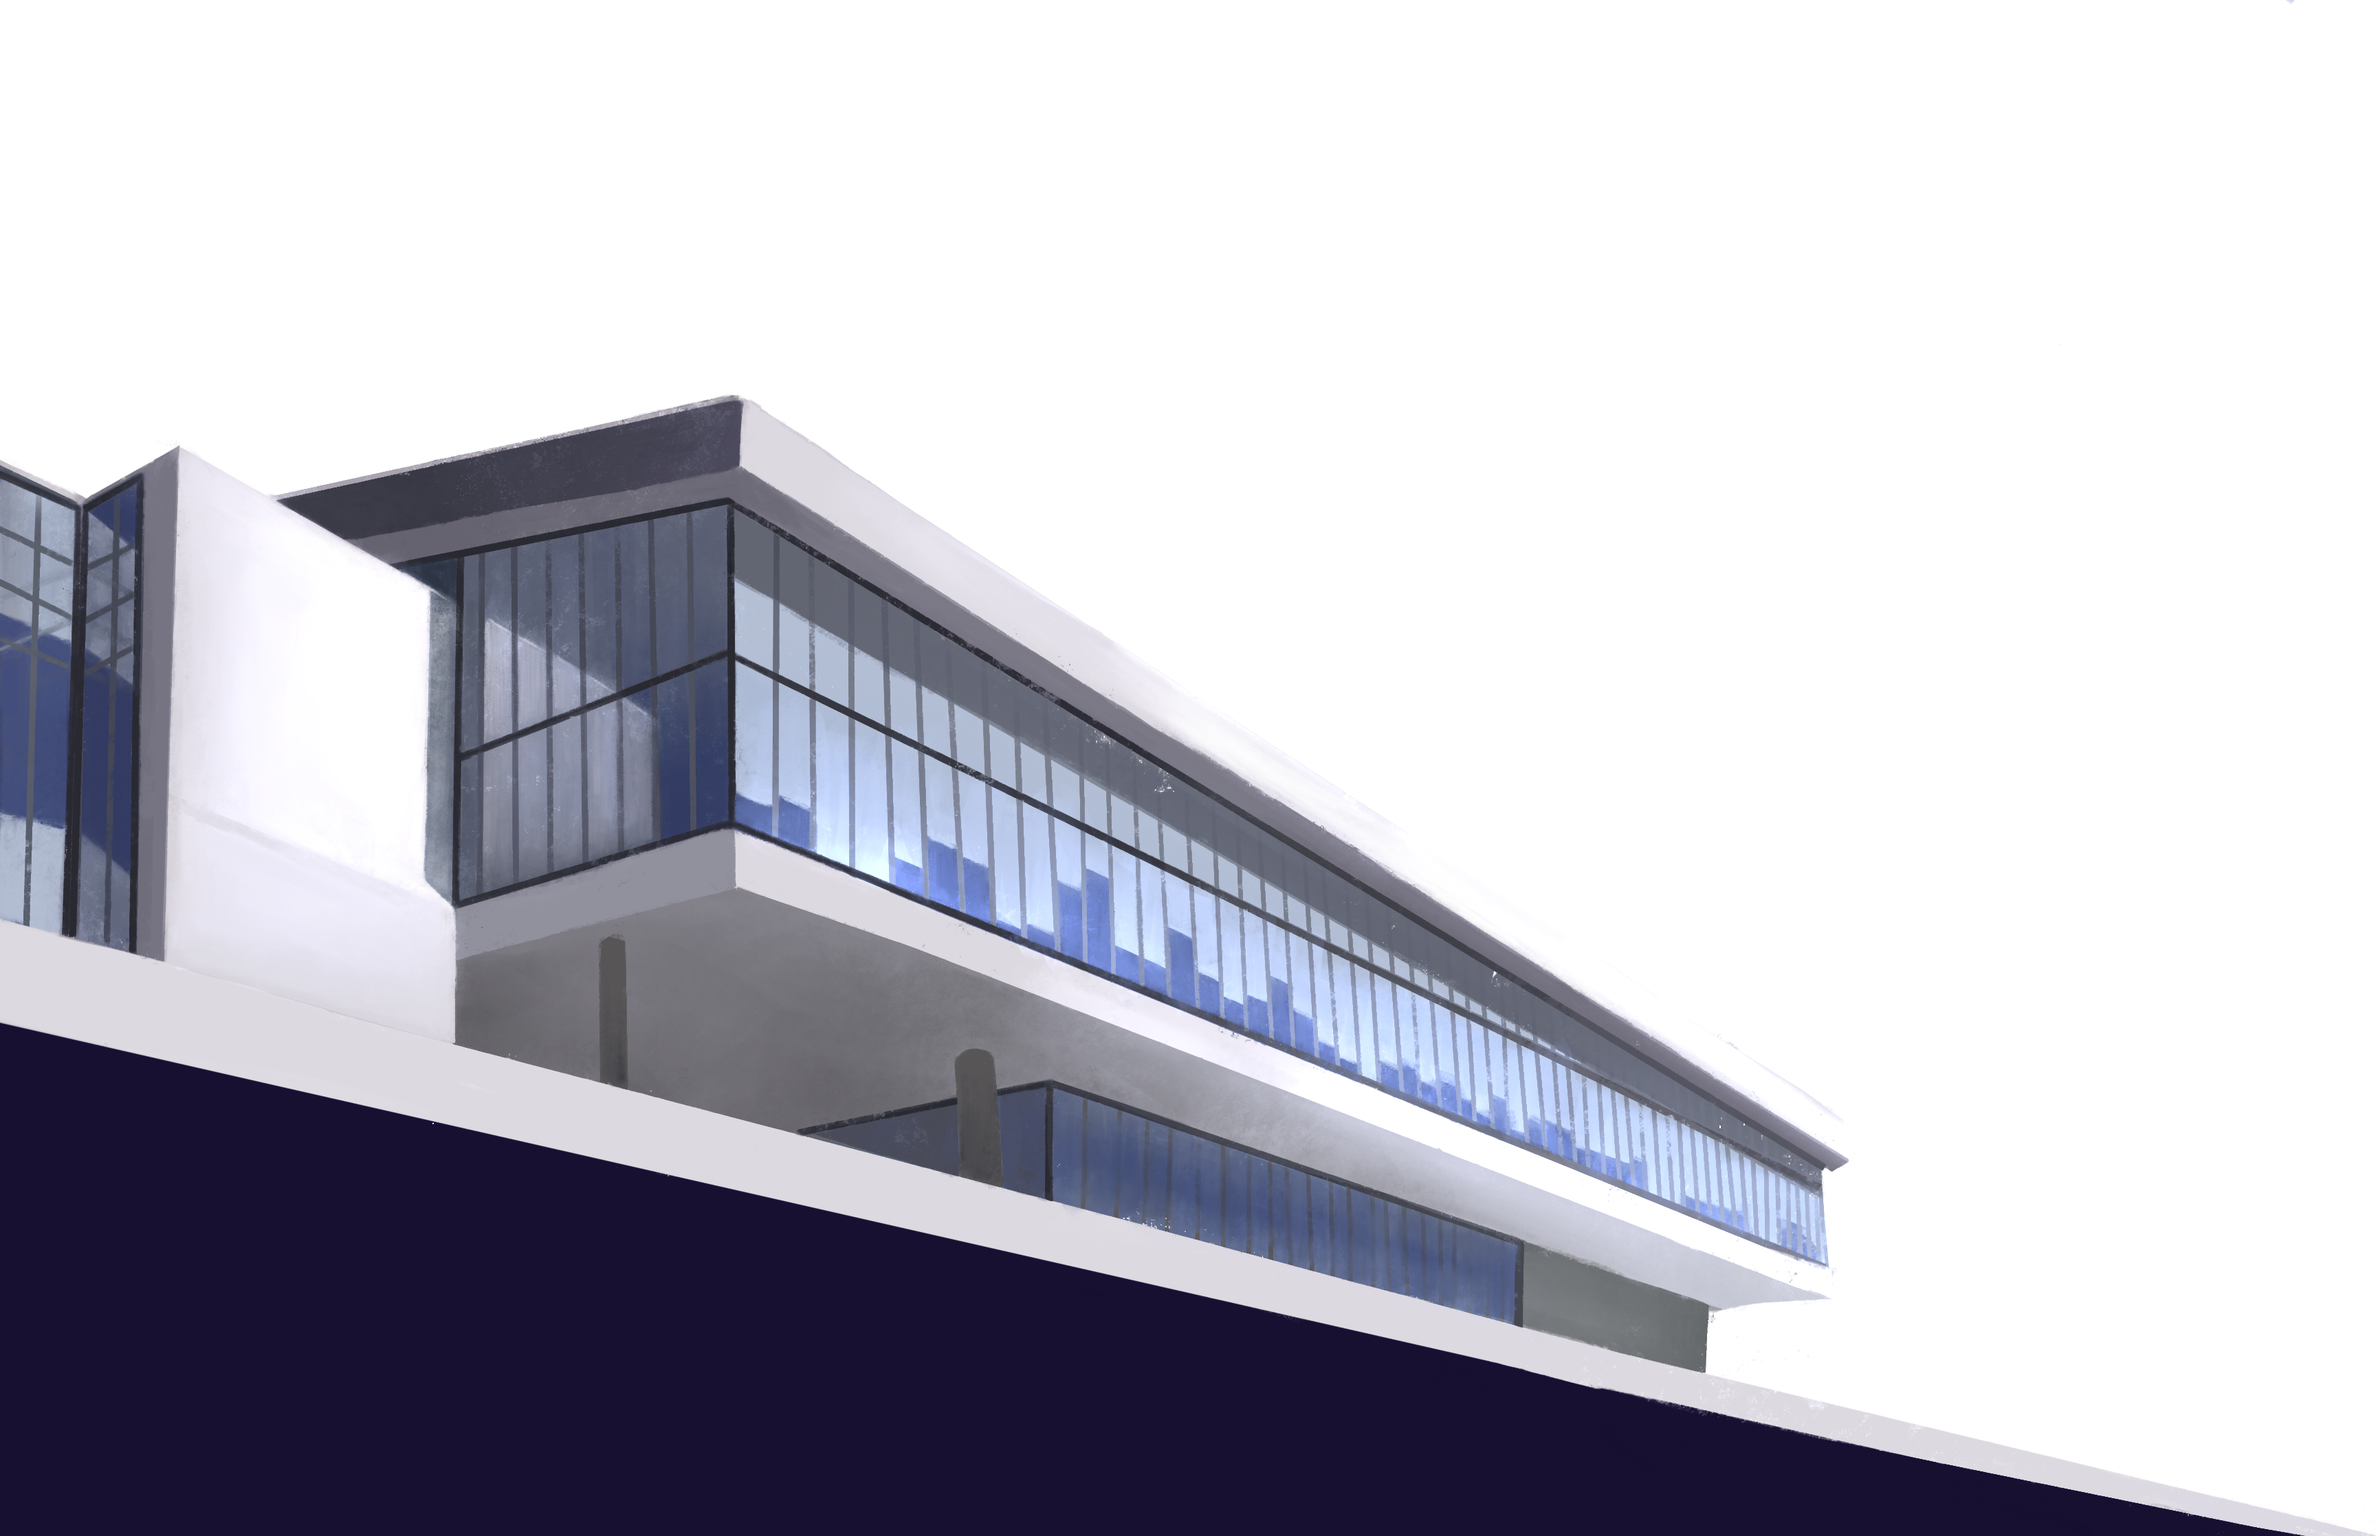
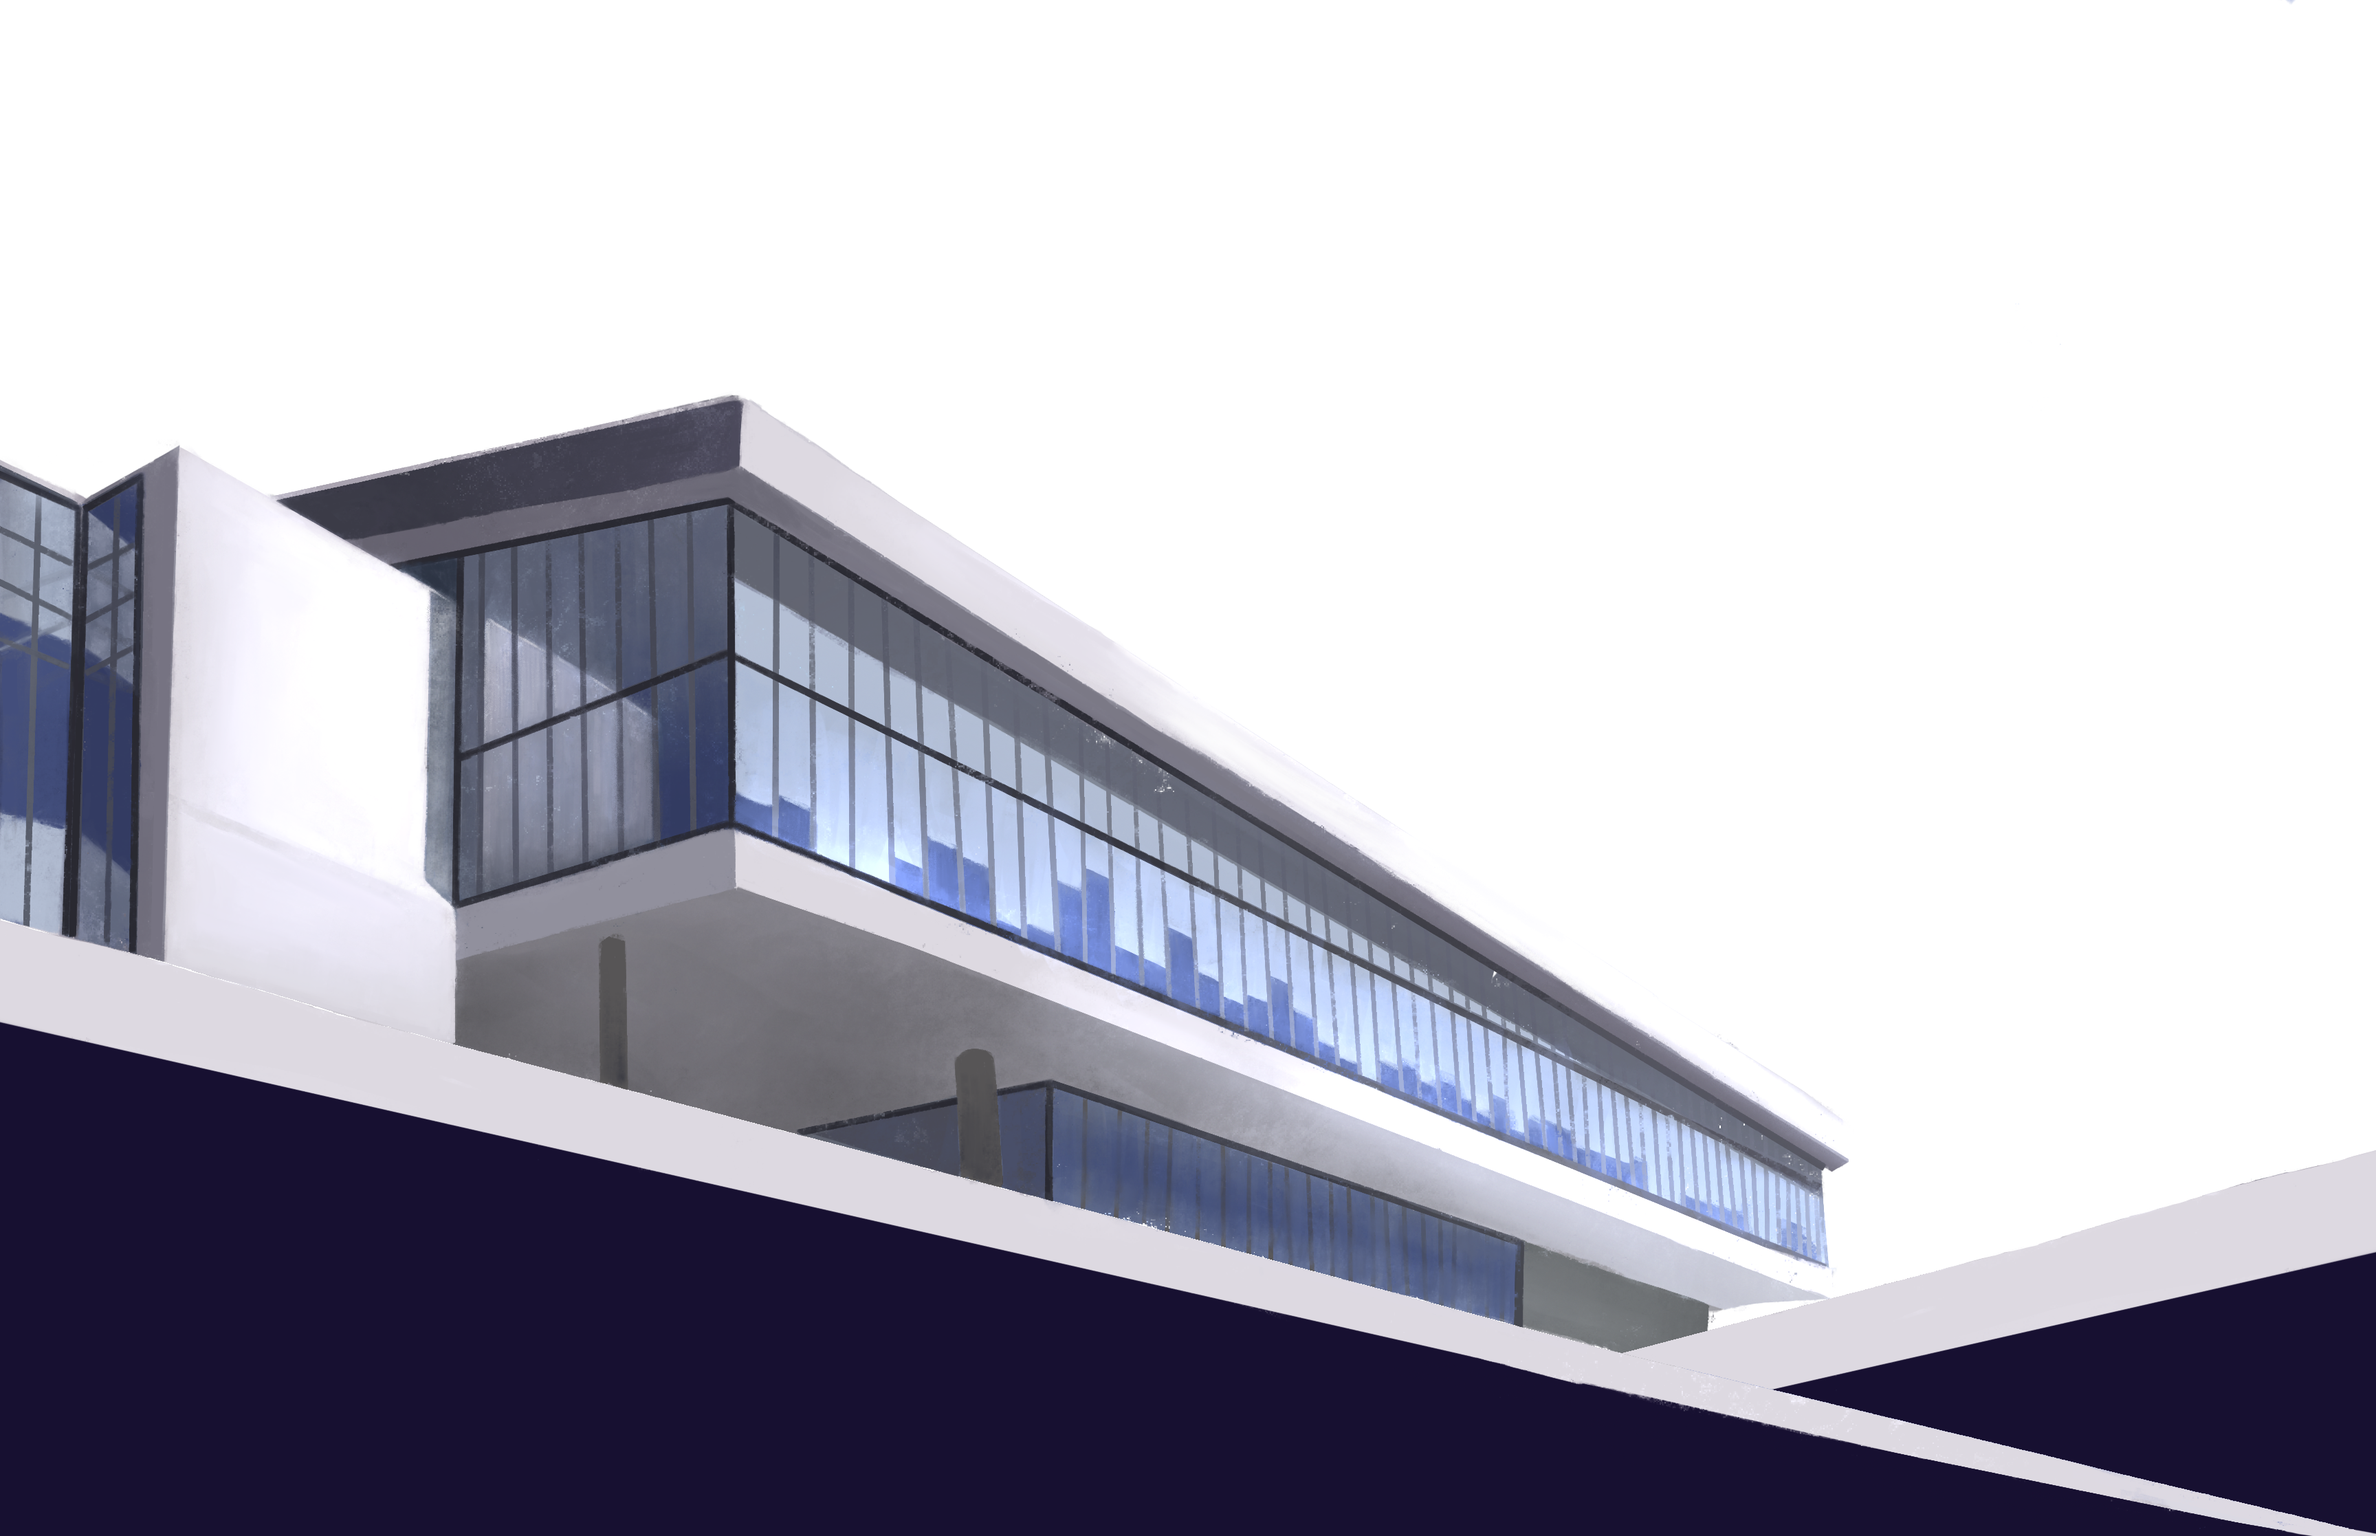
some changes

Changed region(s): [[0.6875, 0.7413, 1.0, 1.0]]

diff --git a/src/components/hero/hero.css b/src/components/hero/hero.css
@@ -39,48 +39,53 @@
     padding: 8rem 0 0rem;
 }
 
+/* Adjusted Cloud Wrapper */
 .clouds_wrapper {
     position: absolute;
     width: 100%;
-    height: 120vh;
+    height: 140vh; /* Increased height to prevent clipping */
     overflow: hidden;
     top: 0;
     left: 0;
     z-index: 1;
 }
 
+/* Extended Clouds Further Down */
 .clouds_container {
     position: relative;
     width: 100%;
     height: 100%;
 }
 
+/* Cloud Animation Fix */
 .cloudlayer1,
 .cloudlayer2 {
     position: absolute;
     top: 0;
-    left: 0;
-    width: 150%;
+    left: 50%;
+    transform: translateX(-50%);
+    width: 200%;
     height: auto;
-    animation: floatClouds 30s ease-in-out infinite;
-    filter: blur(10px);
+    animation: floatClouds 30s linear infinite;
 }
 
+/* Cloud Layer 2 Moves at a Different Speed for Parallax Effect */
 .cloudlayer2 {
     z-index: 2;
     animation-duration: 40s;
-    filter: blur(1.6px);
+    opacity: 0.8;
 }
 
+/* Smooth cloud floating effect */
 @keyframes floatClouds {
     0% {
-        transform: translateX(0);
+        transform: translateX(-50%);
     }
     50% {
-        transform: translateX(-10%);
+        transform: translateX(-48%);
     }
     100% {
-        transform: translateX(0);
+        transform: translateX(-50%);
     }
 }
 
@@ -151,22 +156,38 @@
     transform: translateY(-3px);
 }
 
+/* Ohlone Building Fix */
 .ohloneBuilding_container {
     position: relative;
     width: 100%;
     margin-top: 0;
     z-index: 2;
-    height: 100vh;
+    height: clamp(100vh, 50vw, 120vh); /* Ensures responsive height scaling */
     overflow: hidden;
 }
 
+/* Ensures the image resizes properly without being cut */
 .ohloneBuilding {
     width: 100%;
     height: 100%;
     object-fit: cover;
 }
 
-@media(min-width: 1024px) {
+/* MEDIA QUERY: Prevent Clipping at Higher Resolutions */
+@media (min-width: 1400px) {
+    .ohloneBuilding_container {
+        height: 140vh;
+    }
+}
+
+/* MEDIA QUERY: Extend Cloud Height at Wider Screens */
+@media (min-width: 1400px) {
+    .clouds_wrapper {
+        height: 160vh;
+    }
+}
+
+@media (min-width: 1024px) {
     .hero.form_container {
         position: absolute !important;
         left: 70% !important;
@@ -192,6 +213,7 @@
     }
 }
 
+/* Responsive Mobile Fix */
 @media (max-width: 768px) {
     .hero.hero_container {
         padding: 7rem 0 0rem;

diff --git a/src/components/FAQ/FAQ.css b/src/components/FAQ/FAQ.css
@@ -1,54 +1,85 @@
 .faq-section {
-    background-color: #526ab7;
+    background: linear-gradient(to bottom, #08090d 40%, #1b1c38 100%);
     color: white;
-    padding: 60px 20px;
+    padding: 80px 5vw;
     text-align: center;
-    border-radius: 0; /* Remove rounded corners */
-    width: 100vw; /* Full viewport width */
+    width: 100%;
+    position: relative;
+}
 
-    padding-left: 5vw;
-    padding-right: 5vw;
+/* Angled White Separator - Matches Previous Section */
+.faq-section::before {
+    content: "";
+    position: absolute;
+    top: -60px; /* Adjust this value if necessary */
+    left: 0;
+    width: 100%;
+    height: 100px; /* Height of the white separator */
+    background: white;
+    clip-path: polygon(0 100%, 100% 0, 100% 100%, 0% 100%);
 }
 
 .faq-title {
-    font-size: 2rem;
+    font-size: 2.5rem;
     font-weight: bold;
-    margin-bottom: 20px;
+    margin-bottom: 30px;
     color: #d3d6f3; /* Soft light blue */
 }
 
 .faq-items {
     text-align: left;
-    max-width: 900px;
+    max-width: 800px;
     margin: 0 auto;
 }
 
 .faq-item {
     background: rgba(255, 255, 255, 0.1);
-    padding: 15px 20px;
-    margin: 10px 0;
-    border-radius: 8px;
+    padding: 18px 25px;
+    margin: 12px 0;
+    border-radius: 10px;
     cursor: pointer;
     transition: all 0.3s ease;
+    border: 1px solid rgba(255, 255, 255, 0.2);
 }
 
 .faq-item:hover {
     background: rgba(255, 255, 255, 0.2);
+    transform: scale(1.02);
 }
 
 .question {
-    font-size: 1.2rem;
+    font-size: 1.4rem;
     font-weight: bold;
     color: #ffffff;
 }
 
 .answer {
-    font-size: 1rem;
-    margin-top: 8px;
-    color: #d3d6f3; /* Matching the title color */
-    display: none;
+    font-size: 1.1rem;
+    margin-top: 10px;
+    color: #d3d6f3;
+    display: block;
 }
 
-.faq-item.active .answer {
-    display: block;
+/* Responsive Adjustments */
+@media (max-width: 768px) {
+    .faq-title {
+        font-size: 2rem;
+    }
+
+    .faq-item {
+        padding: 15px;
+    }
+
+    .question {
+        font-size: 1.2rem;
+    }
+
+    .answer {
+        font-size: 1rem;
+    }
+
+    .faq-section::before {
+        top: -40px; /* Adjust for smaller screens */
+        height: 80px;
+    }
 }

diff --git a/src/components/App.jsx b/src/components/App.jsx
@@ -35,9 +35,9 @@ function App() {
         <AboutUs/>
       </section>
 
-      {/* <section id="FAQ">
+      <section id="FAQ">
         <FAQ/>
-      </section> */}
+      </section>
 
       <section id="sponsors">
         <Sponsors/>
